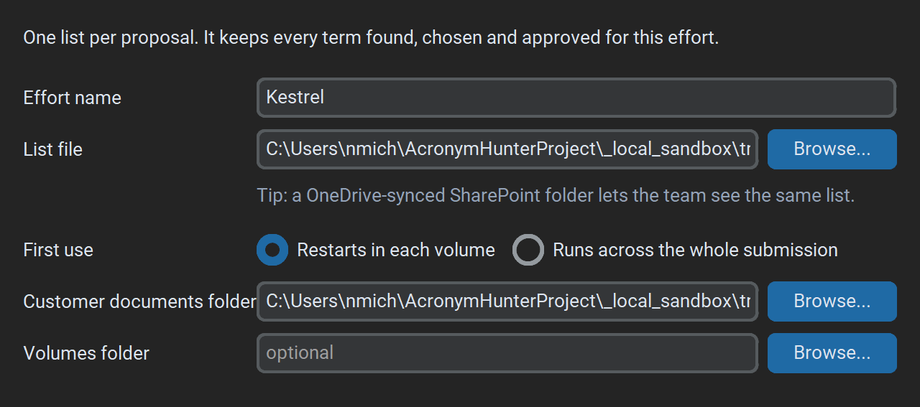
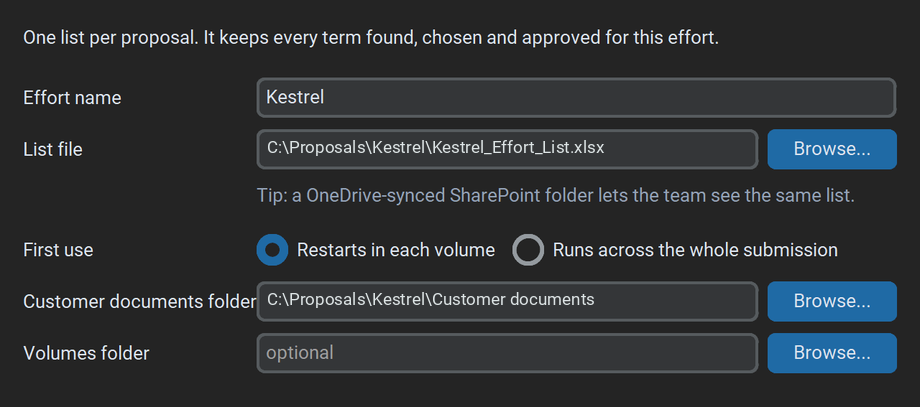
Guide: current menu paths everywhere; old menu bar picture removed; pictures use a neutral user and PC name; no user folder in the effort settings picture
Claude-Session: https://claude.ai/code/session_017b5ncCRSwjS1iiZcKs9k6a

Changed region(s): [[0.2739, 0.7076, 0.8217, 0.7666], [0.2739, 0.3243, 0.8217, 0.3833]]

diff --git a/help_guide.py b/help_guide.py
@@ -125,12 +125,12 @@ PAGES = {
                           "spelled out in the same files. The Definition column says \"Context: ...\" and why, Apply Choice "
                           "starts on it, and the Source preview says what it likely means at each place. When places "
                           "disagree, the row says \"meaning differs by place\". Nothing is applied until you choose: "
-                          "right-click > Accept context suggestion, or Edit > Accept context suggestions. Rules only, "
+                          "right-click > Accept context suggestion, or Advanced > Results list > Accept context suggestions. Rules only, "
                           "typed text only."),
               ("Heading words", "Ordinary words in all-capital headings (EVALUATION FACTORS FOR AWARD) are set aside, not "
                                 "listed as acronyms. Show Excluded lists them; a word also used in running text stays."),
               ("Omit list", "Company names, locations and other terms you want found and recognized but never on the final "
-                            "list. Right-click > Add to omit list (say what it stands for and why), or Edit > Omit list to add, "
+                            "list. Right-click > Add to omit list (say what it stands for and why), or Advanced > Results list > Omit list to add, "
                             "paste many (TERM, stands for, why) and remove. Rows say \"Found in omit list: <why>\"; they are "
                             "never flagged for first use and stay off the CSV export and the volume acronym lists. Saved in "
                             "the company database, so every scan and every effort recognizes them."),
@@ -165,11 +165,11 @@ PAGES = {
               ("When", "Any time a picture is misread. It takes two seconds."),
               ("Why", "Each one is a lesson. Lessons are how the reader gets better over time.")]),
     ("h", "Send corrections: the training team teaches the reader"),
-    ("rows", [("What", "Tools > Send corrections (or the green bar) saves your lessons as one corrections pack."),
+    ("rows", [("What", "Advanced > Reading, training and knowledge > Send corrections to the training team (or the green bar) saves your lessons as one corrections pack."),
               ("Where", "The approved SharePoint folder for the training team only. Never email, GitHub or USB."),
               ("Then", "The training team imports everyone's packs in Acronym Hunter Training, checks each line, trains a "
                        "better reader and tests it. Only a reader that reads better ships."),
-              ("Back to you", "It comes back as a numbered Knowledge Pack: Tools > Knowledge Packs > Install. Undo puts the "
+              ("Back to you", "It comes back as a numbered Knowledge Pack: Advanced > Reading, training and knowledge > Knowledge... > Install. Undo puts the "
                               "previous one back.")]),
     ("img", "training.png", 480),
 ],
@@ -179,7 +179,7 @@ PAGES = {
           "It starts on your desktop and can live in a synced SharePoint folder so the team sees the same list."),
     ("img", "effort_setup.png", 460),
     ("img", "effort_line.png", 560),
-    ("rows", [("Start", "Effort > New effort. Name it, pick where the list lives, choose the first-use rule, and point to the "
+    ("rows", [("Start", "File > New effort. Name it, pick where the list lives, choose the first-use rule, and point to the "
                         "customer documents folder."),
               ("Customer first", "Every scan reads the customer documents' own definitions: \"Spelled Out (ACR)\" and acronym "
                                  "tables. The customer's definition beats the database. Two different ones: you choose."),
@@ -187,7 +187,7 @@ PAGES = {
               ("Approve", "Right-click > Effort list > Approve. Enter the SS approver; several names are fine, separated by ;."),
               ("Not a term", "Right-click > Effort list > Not a term in this effort. Hidden for this proposal only."),
               ("Scan Again", "Approved definitions win on every later scan. Edits made in Excel are read too."),
-              ("Export", "Effort > Export for approvals: sheets for Needs author, Conflicts, Approved and All."),
+              ("Export", "Advanced > Effort list and all effort commands > Export for approvals: sheets for Needs author, Conflicts, Approved and All."),
               ("Excel open", "If the list is open in Excel, the app asks you to close it and keeps your change until it can save.")]),
     ("p", "The Add to effort list button sits in the bottom bar:"),
     ("img", "effort_add.png", 150),
@@ -229,7 +229,7 @@ PAGES = {
                                         "used only there is listed in blue with nothing to check."),
               ("Per section", "Sections come from Word headings. Numbered headings group by their first number or letter "
                               "(2, 2.1 and 2.3 are all section 2; C.3 is section C); other headings are their own section. "
-                              "PDFs and slides have no headings, so the whole file counts as one section. Effort > Effort settings "
+                              "PDFs and slides have no headings, so the whole file counts as one section. Advanced > Effort list and all effort commands > Effort settings "
                               "changes the rule."),
               ("Not in effort list", "Terms the volume uses that the list does not have. One click adds them as Proposed."),
               ("Not approved", "In the list, but still Proposed or Needs an author."),
@@ -239,7 +239,7 @@ PAGES = {
               ("Acronym lists", "One Word file per volume (and one for all volumes): a Term and Definition table, sorted."),
               ("Record", "Writes Used in volumes and First use into the effort list.")]),
     ("h", "Start an effort"),
-    ("p", "Effort > Start a new effort (or Start an effort at the top) opens seven short steps: the Acronyms, Abbreviations, Units and Symbols Master Database, the effort and client (short name, solicitation number, your internal "
+    ("p", "File > New effort (or Start an effort at the top) opens seven short steps: the Acronyms, Abbreviations, Units and Symbols Master Database, the effort and client (short name, solicitation number, your internal "
           "number), the customer's own acronym lists, the customer documents, the response structure, how the list ships (one "
           "list, one per volume, or both; the first-use rule), and ready. The documents are copied into the effort's Customer documents folder and read "
           "for a jump start; Review new terms adds what they hold in one click."),
@@ -256,17 +256,17 @@ PAGES = {
                                            "ones, and opens Review new terms."),
               ("Every scan", "Updates Found in, First found, Last found and Scan status in the effort list. Terms a rescan no "
                              "longer finds say \"No longer found in <file>\"; nothing is removed."),
-              ("Activity", "Effort > Activity: what was added, from which document, by whom, newest first.")]),
+              ("Activity", "Advanced > Effort list and all effort commands > Activity: what was added, from which document, by whom, newest first.")]),
     ("h", "Acronyms, Abbreviations, Units and Symbols Master Database and Known in"),
     ("rows", [("Load it first", "The first step of Start an effort loads the company's Acronyms, Abbreviations, Units and Symbols Master Database (CSV or Excel with "
                                 "Term, Category, Definition, Action, or a plain acronym list). It is shared by every effort on this PC."),
               ("Known in", "Every result says where the term is known: Customer docs, Customer list, Master database only, or "
                            "Not found in any source. Status > Known in filters by it; the CSV export has the column."),
-              ("A newer version", "File > Load master database. Each load is a numbered version. Rows added on this PC stay; "
+              ("A newer version", "Advanced > Master database > Load the Acronyms, Abbreviations, Units and Symbols Master Database. Each load is a numbered version. Rows added on this PC stay; "
                                   "rows the new version dropped are removed; new rows are added."),
               ("Update the results", "After a new version the app offers to update the results. Nothing is removed: rows the "
                                      "database changes say Database update (Status > Database update), and your decisions, "
-                                     "picked definitions and effort list stay. File > Update results against the master database "
+                                     "picked definitions and effort list stay. Advanced > Master database > Update results against the master database "
                                      "does it any time.")]),
     ("h", "Effort list (home) and Scan review"),
     ("p", "Acronyms has two working steps. Define and approve (the effort list) shows every decision for the effort, "
@@ -336,7 +336,7 @@ PAGES = {
                        "\"Statement of Work (SOW)\" is never split."),
               ("QA/QC", "An alt form has no first use of its own, counts as a use of its primary, and is listed with it.")]),
     ("h", "The Acronyms, Abbreviations, Units and Symbols Master Database across efforts"),
-    ("p", "When an effort is done: Effort > Add this effort to the Acronyms, Abbreviations, Units and Symbols Master "
+    ("p", "When an effort is done: Advanced > Effort list and all effort commands > Add this effort to the Acronyms, Abbreviations, Units and Symbols Master "
           "Database. One master row per term and meaning; "
           "no repeat rows."),
     ("rows", [("What goes in", "The effort list's Approved terms with a definition, with their alt forms."),
@@ -580,7 +580,7 @@ PAGES = {
               ("Exclude instance", "Only this place is wrong: the term stays in its other places. Saved for this effort. To "
                                    "exclude the term everywhere use Exclude in the bottom bar; for this effort only, Not a term."),
               ("Undo last save", "Takes back your last save in this panel.")]),
-    ("p", "Tools > Show preview pane turns this panel on or off."),
+    ("p", "View > Preview pane turns this panel on or off."),
 ],
 "Symbols": [
     ("h", "Symbol picker: no more copy and paste"),
@@ -607,15 +607,14 @@ PAGES = {
 ],
 "Sharing": [
     ("h", "Work as a team"),
-    ("img", "menubar.png", 420),
-    ("rows", [("Knowledge Pack", "Tools > Knowledge Packs. The training team ships the reader, database, OCR fixes and "
+    ("rows", [("Knowledge Pack", "Advanced > Reading, training and knowledge > Knowledge.... The training team ships the reader, database, OCR fixes and "
                                  "ignore list in one numbered file. Install it; Undo puts the previous one back."),
-              ("Corrections", "Tools > Send corrections. Your lessons for the training team, in one file."),
+              ("Corrections", "Advanced > Reading, training and knowledge > Send corrections to the training team. Your lessons for the training team, in one file."),
               ("Where", "Your approved local SharePoint folder only. Never GitHub, email or USB."),
               ("Client Lists", "Load the client's own acronym list (a file, a picture of one, or Paste or type...), then "
                                "confirm the terms found. Its definitions win over the database."),
               ("Projects", "Project > Save. A rescan reads only files that changed."),
-              ("Full Text", "Tools > Full Text. All typed and picture text, saved as .txt.")]),
+              ("Full Text", "Advanced > Reading, training and knowledge > Full Text. All typed and picture text, saved as .txt.")]),
     ("h", "Feedback: bugs, improvements, ideas"),
     ("rows", [("Open", "The Feedback button, or Ctrl+Shift+F."),
               ("Write", "Pick Bug, Improvement or Idea and the feature. Describe the feature, never your documents."),

diff --git a/tools/make_guide_shots.py b/tools/make_guide_shots.py
@@ -10,6 +10,10 @@ with PIL ImageGrab, so the window must be on screen and not covered.
 import os, sys, shutil, tempfile, time
 sys.path.insert(0, os.path.dirname(os.path.dirname(os.path.abspath(__file__))))
 os.environ["AH_TEST"] = "1"
+for _k in ("LOGNAME", "USER", "LNAME", "USERNAME"):        # 2.41.0: pictures show a neutral user and PC, never the build PC's
+    os.environ[_k] = "jsmith"
+import platform
+platform.node = lambda: "TEAM-PC"
 import app_gui as A, effort as E, effort_home as H
 from tkinter import messagebox
 from PIL import ImageGrab, Image
